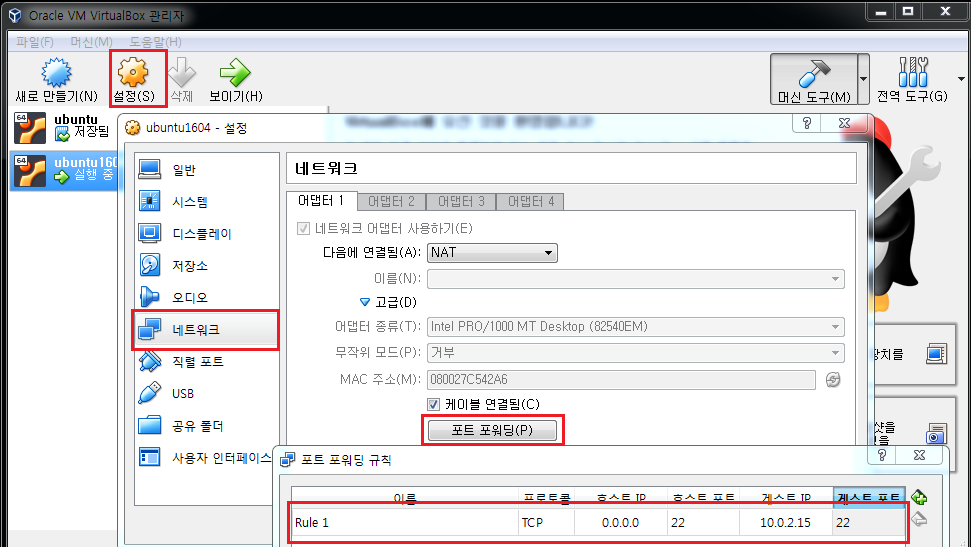
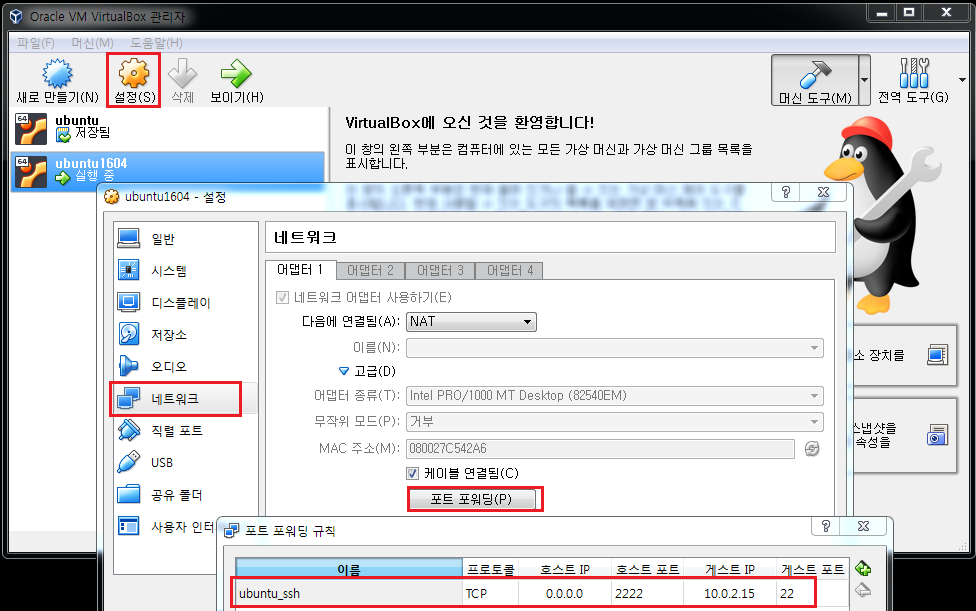
개발 환경 세팅(part 1)

diff --git a/BCEdu/Edu_1st.md b/BCEdu/Edu_1st.md
@@ -22,71 +22,16 @@
     ![IP확인하기](https://github.com/aimmvp/BlockChain/blob/master/BCEdu/img/edu1_5.png)
   - ssh 접속을 위한 네트워크 설정
     ![네트워크 어댑터 : NAT, 포트포워딩 설정](https://github.com/aimmvp/BlockChain/blob/master/BCEdu/img/edu1_6.png)
-
-
-    
-### 3. Terminal 설치
+    * ubuntu 의 10.0.2.15 포트 22를 2222 포트로 포워딩 설정
+### 4. Terminal(PuTTY) 설치
   - Windows를 사용 할 경우 putty 등 Terminal 설치 필요
+  - PuTTY Download(https://www.chiark.greenend.org.uk/~sgtatham/putty/latest.html)
+    ![PuTTY Download](https://github.com/aimmvp/BlockChain/blob/master/BCEdu/img/edu1_7.png)
+  - PuTTY Session 정보 설정
+    * IP : 127.0.0.1, PORT : 2222    
+    ![PuTTY Configuration](https://github.com/aimmvp/BlockChain/blob/master/BCEdu/img/edu1_8.png)
+    * 접속이 되지 않을 경우 Ubuntu Server 설치 시 소프투웨어 설치가 안된 것으로 아래의 script 로 openssh server 설치
     ```
 	$ sudo apt install openssh-client
 	$ sudo apt install openssh-server
 	```
-## 개발 환경 세팅(part 2)
-### 1. GO 설치
-  - https://golang.org/doc/install 참고
-  - 설치 파일 다운로드 및 압축풀기
-  ```
-  $ sudo apt-get install build-essential
-  $ wget https://storage.googleapis.com/golang/go1.9.linux-amd64.tar.gz # Download Archive
-  $ tar xvfz go1.9.linux-amd64.tar.gz # Unzip Archive File
-  ```
-  - GOPATH, PATH 설정
-  ```
-  $ mkdir $HOME/workplace
-  $ export GOPATH=$HOME/workplace
-  $ export PATH=$PATH:$HOME/go/bin
-  ```
-  
-### 2. Docker 설치
-  - https://docs.docker.com/install/linux/docker-ce/ubuntu/#install-using-the-repository 참고
-  - Install using the repository
-  ```
-  # 1. Update the apt package index
-  $ sudo apt-get update     
-  # 2. Install Packages
-  $ sudo apt-get install apt-transport-https  ca-certificates  curl  software-properties-common
-  # 3. Add Docker's official GPG Key
-  $ curl -fsSL https://download.docker.com/linux/ubuntu/gpg | sudo apt-key add -
-  $ sudo apt-key fingerprint 0EBFCD88
-  # 4. set up the stable repository
-  $ sudo add-apt-repository  "deb [arch=amd64] https://download.docker.com/linux/ubuntu \
-    $(lsb_release -cs) stable"
-  ```
-  - Install Docker Compose(https://docs.docker.com/compose/install/#install-compose)
-  ```
-  $ sudo apt-get update
-  $ sudo apt install docker-compose
-  ``` 
-  ```
-  # Manage Docker as a non-root user
-  # add user to docker group
-  $ sudo usermod -aG docker $USER
-  ```
-  ```
-  # Reboot System
-  $ sudo reboot
-  ```
-  
-### 3. nodejs 설치
- - https://nodejs.org/ko/download/package-manager/
-```
-$ sudo apt install npm
-$ sudo npm install npm@3.10.10 -g
-$ sudo apt install nodejs-legacy
-```
- - Node.js 9 사용을 위한 version update
- ```
- $ sudo apt-get update && sudo apt-get -y upgrade
- $ curl -sL https://deb.nodesource.com/setup_9.x | sudo -E bash -
- $ sudo apt-get install nodejs
- ```
